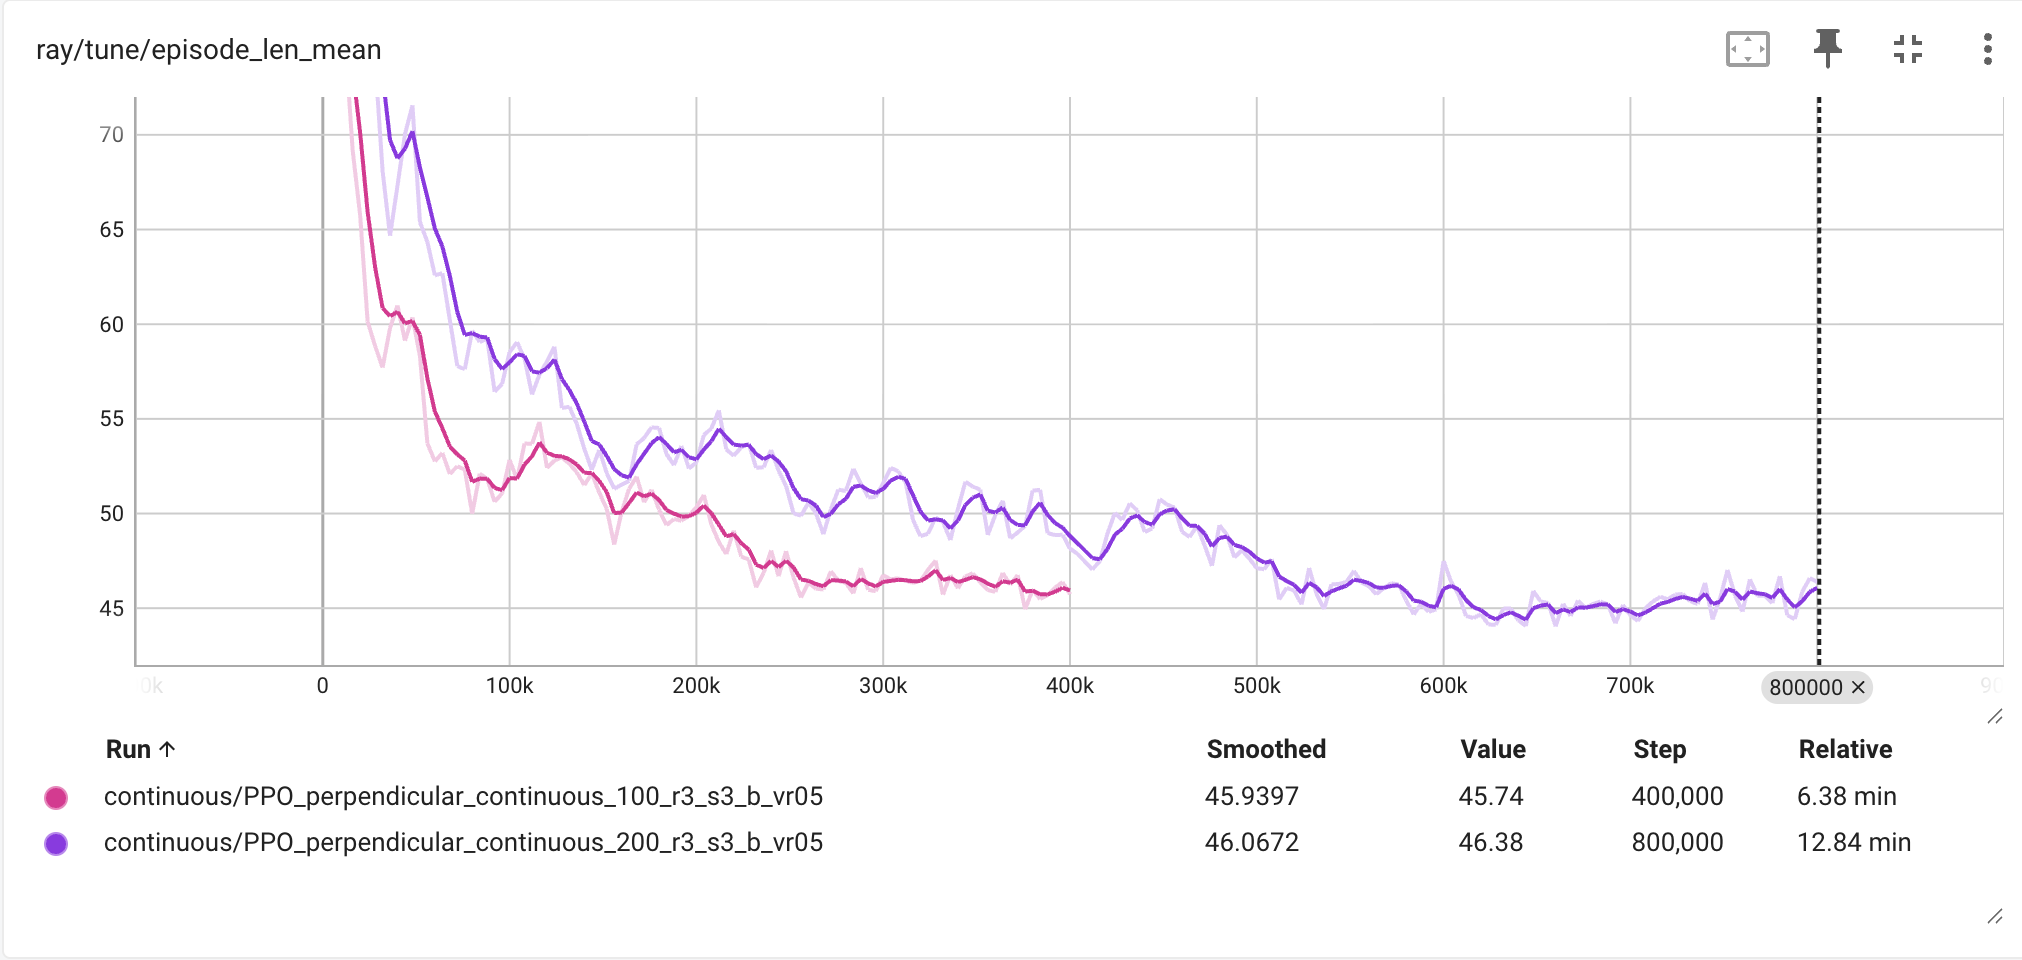
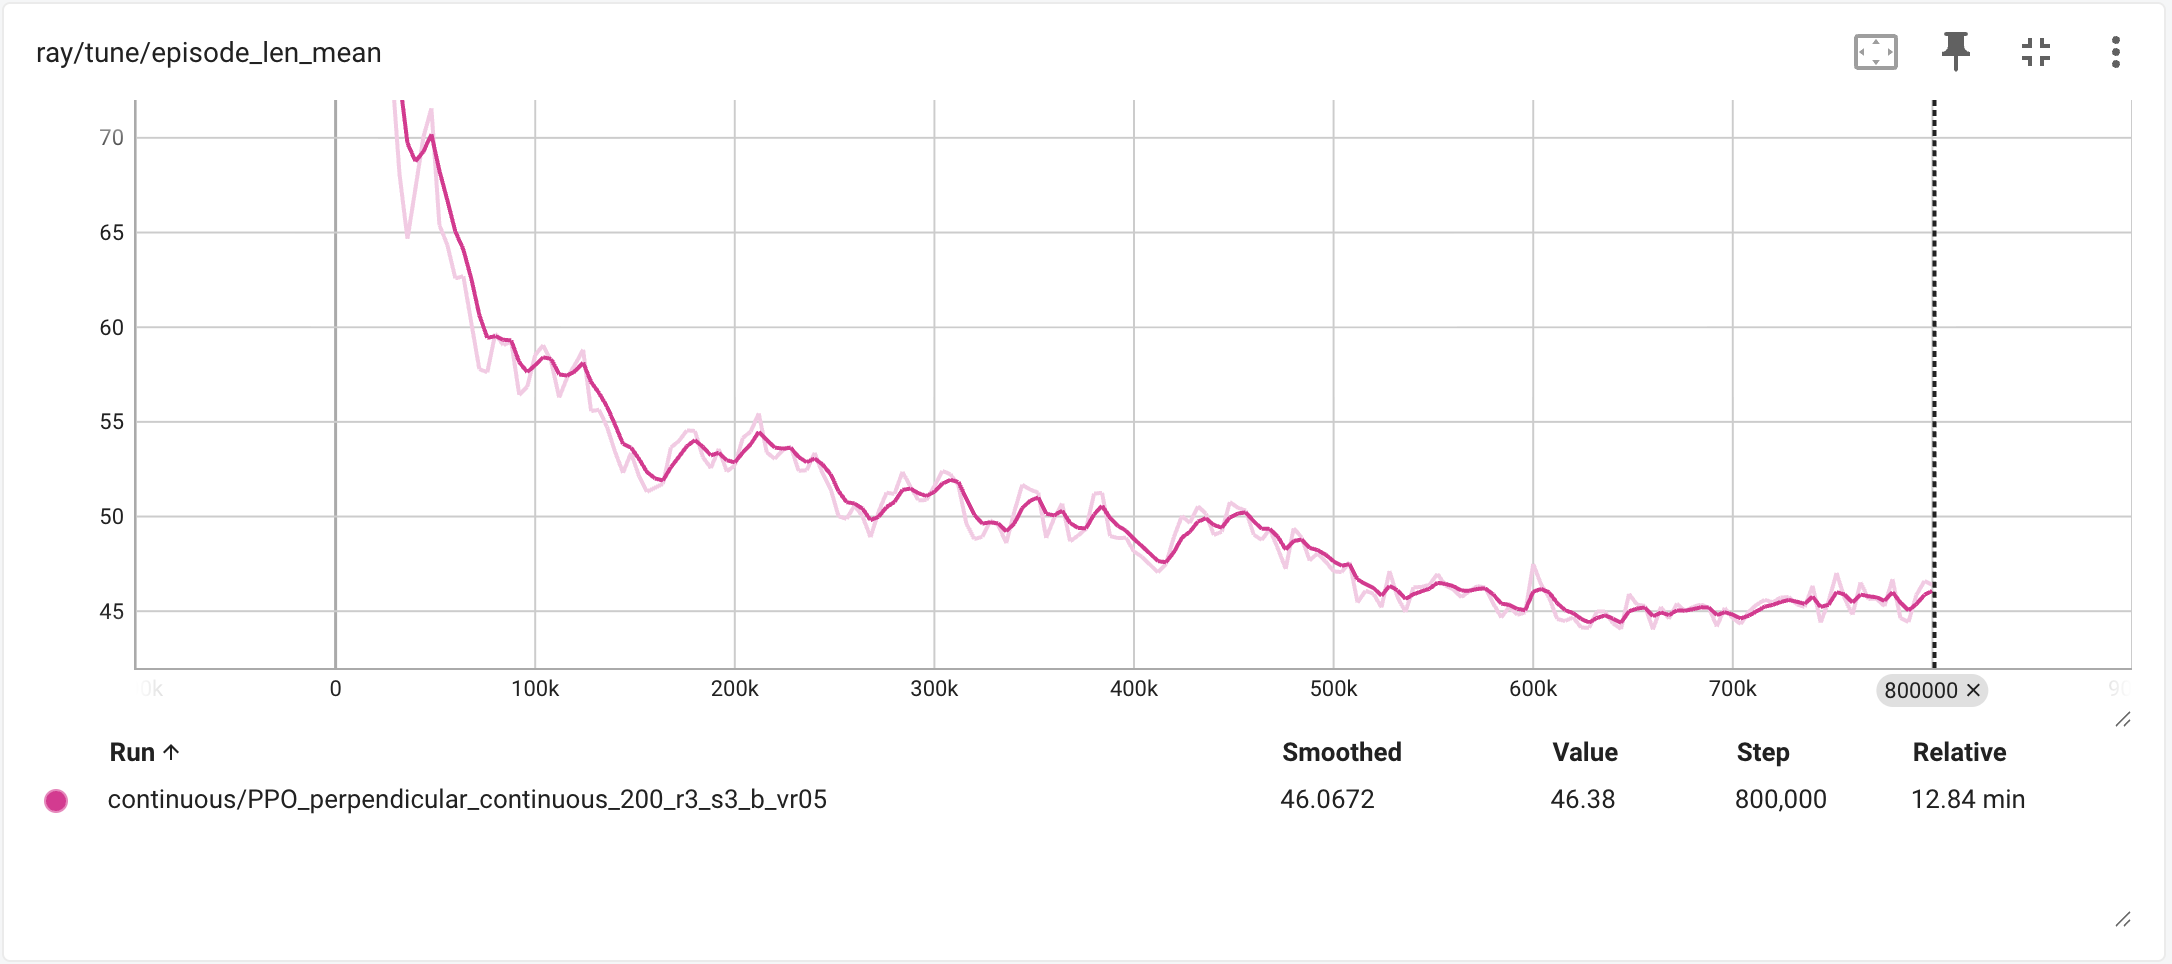
replaced the training result figures of Perpendicular parking type3 and 4, and added training analysis and history comments.

diff --git a/doc/training_results.md b/doc/training_results.md
@@ -61,6 +61,9 @@ num_train = 100
 </figure>
 
 - Result analysis  
+Figure 2 shows that the agent achieved the maximum reward early in training, indicating that it was able to successfully complete the parking task at an early stage. Moreover, as shown in Figure 1, the mean episode length gradually decreased as training progressed. 
+This trend indicates that the agent learned a more efficient parking policy throughout training, enabling it to reverse into the parking slot properly.
+In addition, the mean reward shown in Figure 3 increased sharply from approximately -1 to 0.7 between 50K and 150K episodes, and eventually exceeded 0.9 by the end of training.
 
 
 ### Guidance Reward (Reward/State: type2)
@@ -87,6 +90,11 @@ env_config = {"render_mode": "no_render",
 num_train = 100
 ```
 
+- Trained agent (Continuous action)
+
+
+
+- Training results (Continuous action)
 
 <figure>
     <img src="../training/assets/perpendicular_parking/perpendicular_type2_len_mean.png" alt="The mean length plot for the type2 of the perpendicular parking" width="1000">
@@ -103,7 +111,18 @@ num_train = 100
     <figcaption>The mean reward in each episode of the continuous action space in the type2 of the perpendicular parking for the 100-iteration training</figcaption>
 </figure>
 
-- Result analysis
+- Result analysis  
+Figure 5 shows that the agent successfully completed the parking task, reaching more than 0.98 reward at 50K episodes. 
+In addition, Figure 4 illustrates the mean episode length decreased significantly during the first 150K episodes, indicating that the agent was able to improve its policy. 
+At the same time, the mean reward reached 0.7 at 150 episodes and continued to increase, eventually reaching approximately 0.95 by the end of training. 
+These results suggest that the angle penalty successfully encouraged the agent to reduce its heading error.
+
+- Training history  
+At the beginning of training, the agent failed to learn the importance of reducing its heading error despite the use of an angle penalty.
+This occurred because the agent's heading angle often exceeded `max_angle_error` by the time each episode finished.  
+The `max_angle_error` parameter defines the heading-error range over which the angle penalty increases proportionally. If the heading error exceeds `max_angle_error`, the maximum angle penalty is applied regardless of how much larger the error becomes.  
+Initially, `max_angle_error` value was set to PI/12 (15 degrees) during training. However, this threshold did not work effectively because the agent could not differentiate between a heading error of 15 degrees and an error greater than 15 degrees, as both resulted in the same maximum penalty. This lack of differentiation prevented the agent from learning to reduce larger heading errors.  
+Increasing `max_angle_error` to PI/4.5 (40 degrees) allowed the agent to distinguish  between a wider range of heading errors, enabling it to reduce its heading error relative to the parking space.
 
 
 ### Velocity Penalty (Reward/State: type3)
@@ -136,21 +155,23 @@ num_train = 200
 
 <figure>
     <img src="../training/assets/perpendicular_parking/perpendicular_type3_len_mean.png" alt="The mean length plot for the type3 of the perpendicular parking" width="1000">
-    <figcaption>The mean episode length of the continuous action space in the type3 of the perpendicular parking for the 100-iteration training</figcaption>
+    <figcaption>The mean episode length of the continuous action space in the type3 of the perpendicular parking for the 200-iteration training</figcaption>
 </figure>
 
 <figure>
     <img src="../training/assets/perpendicular_parking/perpendicular_type3_reward_max.png" alt="The max reward plot for the type3 of the perpendicular parking" width="1000">
-    <figcaption>The maximum reward in each iteration of the continuous action space in the type3 of the perpendicular parking for the 100-iteration training</figcaption>
+    <figcaption>The maximum reward in each iteration of the continuous action space in the type3 of the perpendicular parking for the 200-iteration training</figcaption>
 </figure>
 
 <figure>
     <img src="../training/assets/perpendicular_parking/perpendicular_type3_reward_mean.png" alt="The mean reward plot for the type3 of the perpendicular parking" width="1000">
-    <figcaption>The mean reward in each episode of the continuous action space in the type3 of the perpendicular parking for the 100-iteration training</figcaption>
+    <figcaption>The mean reward in each episode of the continuous action space in the type3 of the perpendicular parking for the 200-iteration training</figcaption>
 </figure>
 
 - Training analysis  
-
+Figure 8 illustrates that the agent was able to complete the parking task early in training. 
+Additionally, the mean episode length shown in Figure 7 decreased substantially to approximately 50 by around 150K episodes, reaching about 46 by the end of training. 
+This trend suggests that the agent learnt a more effective parking policy. The mean reward shown in Figure 9 increased sharply, exceeding 0.5 at 150K episodes, and then slowly increased to approximately 0.9 by the end of training. These results indicate that the velocity penalty successfully encouraged the agent to reduce its velocity while approaching the parking space.
 
 
 ### Both Guidance Reward and Velocity Penalty (Reward/State: type4)
@@ -183,21 +204,21 @@ num_train = 200
 
 <figure>
     <img src="../training/assets/perpendicular_parking/perpendicular_type4_len_mean.png" alt="The mean length plot for the type4 of the perpendicular parking" width="1000">
-    <figcaption>The mean episode length of the continuous action space in the type4 of the perpendicular parking for the 100-iteration training</figcaption>
+    <figcaption>The mean episode length of the continuous action space in the type4 of the perpendicular parking for the 200-iteration training</figcaption>
 </figure>
 
 <figure>
     <img src="../training/assets/perpendicular_parking/perpendicular_type4_reward_max.png" alt="The max reward plot for the type4 of the perpendicular parking" width="1000">
-    <figcaption>The maximum reward in each iteration of the continuous action space in the type4 of the perpendicular parking for the 100-iteration training</figcaption>
+    <figcaption>The maximum reward in each iteration of the continuous action space in the type4 of the perpendicular parking for the 200-iteration training</figcaption>
 </figure>
 
 <figure>
     <img src="../training/assets/perpendicular_parking/perpendicular_type4_reward_mean.png" alt="The mean reward plot for the type4 of the perpendicular parking" width="1000">
-    <figcaption>The mean reward in each episode of the continuous action space in the type4 of the perpendicular parking for the 100-iteration training</figcaption>
+    <figcaption>The mean reward in each episode of the continuous action space in the type4 of the perpendicular parking for the 200-iteration training</figcaption>
 </figure>
 
 - Training analysis  
-
+Figure 11 illustrates that the agent was able to complete the parking task early in training, with the maximum reward eventually exceeding 0.95. The mean episode length shown in Figure 10 plunged to approximately 48 at 100K episodes, stabilizing around 45 by the end of training. Moreover, Figure 12 shows that the agent achieved a mean reward of more than 0.5 at 100K, and the mean reward gradually increased to 0.89 by the end of training. These results indicate that the agent learned a more effective policy under a reward function incorporating both the angle and velocity penalties. 
 
 
 ## Parallel Parking
@@ -401,7 +422,6 @@ num_train = 100
 </figure>
 
 - Training analysis  
-
 
 
 ## Conclusion
